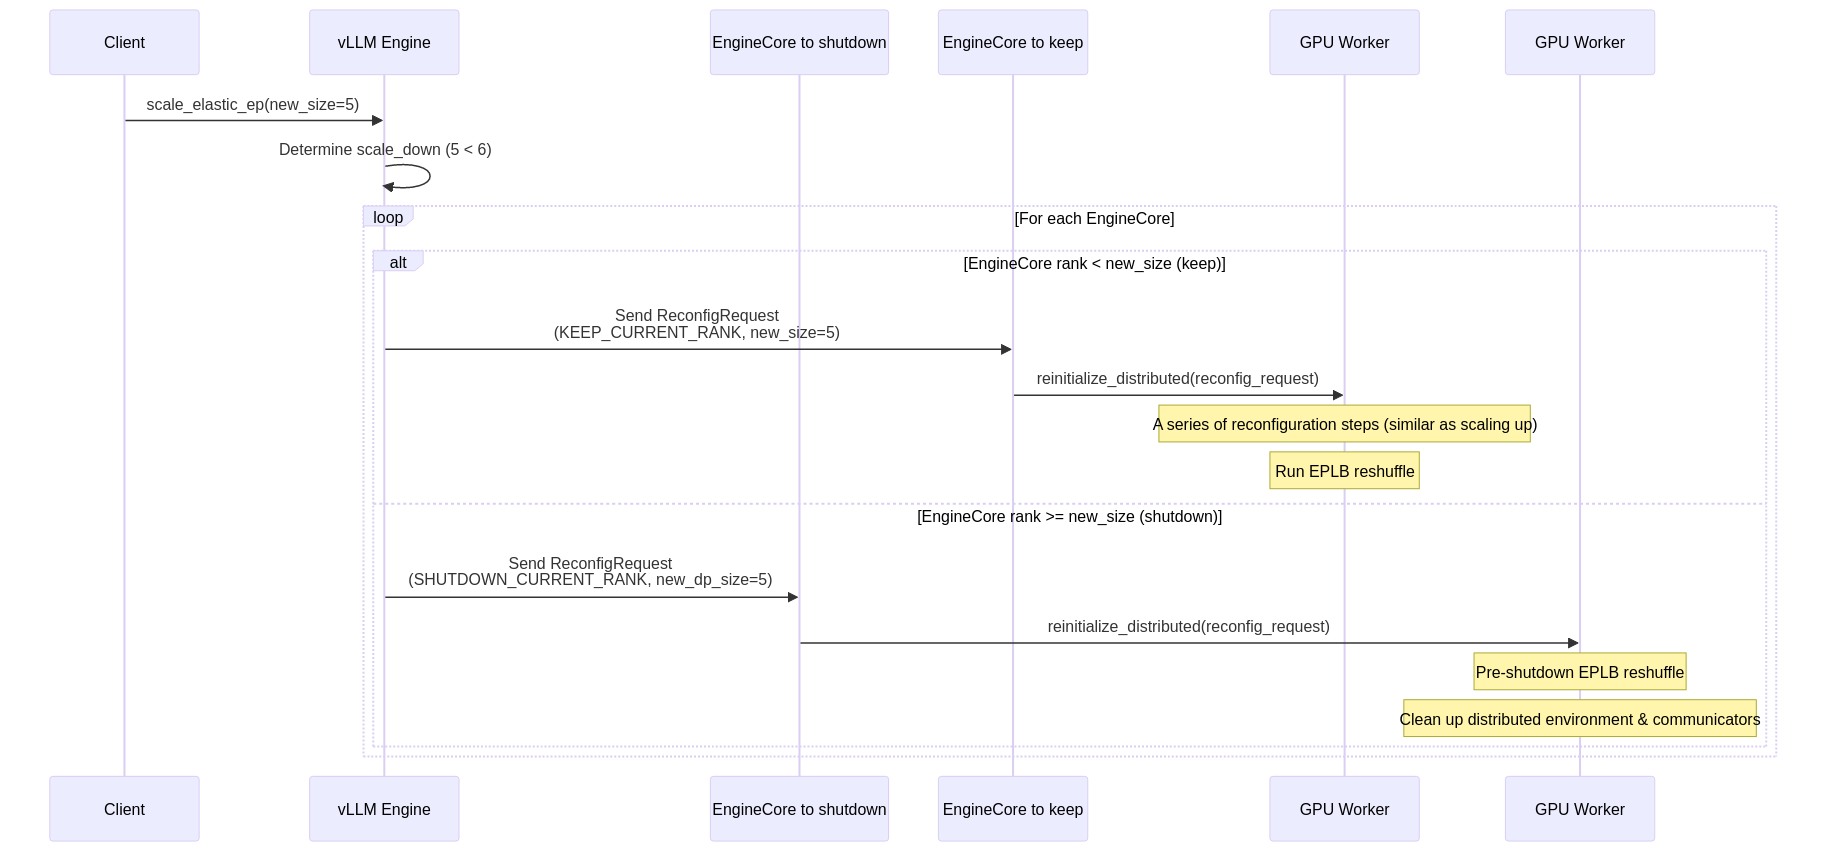
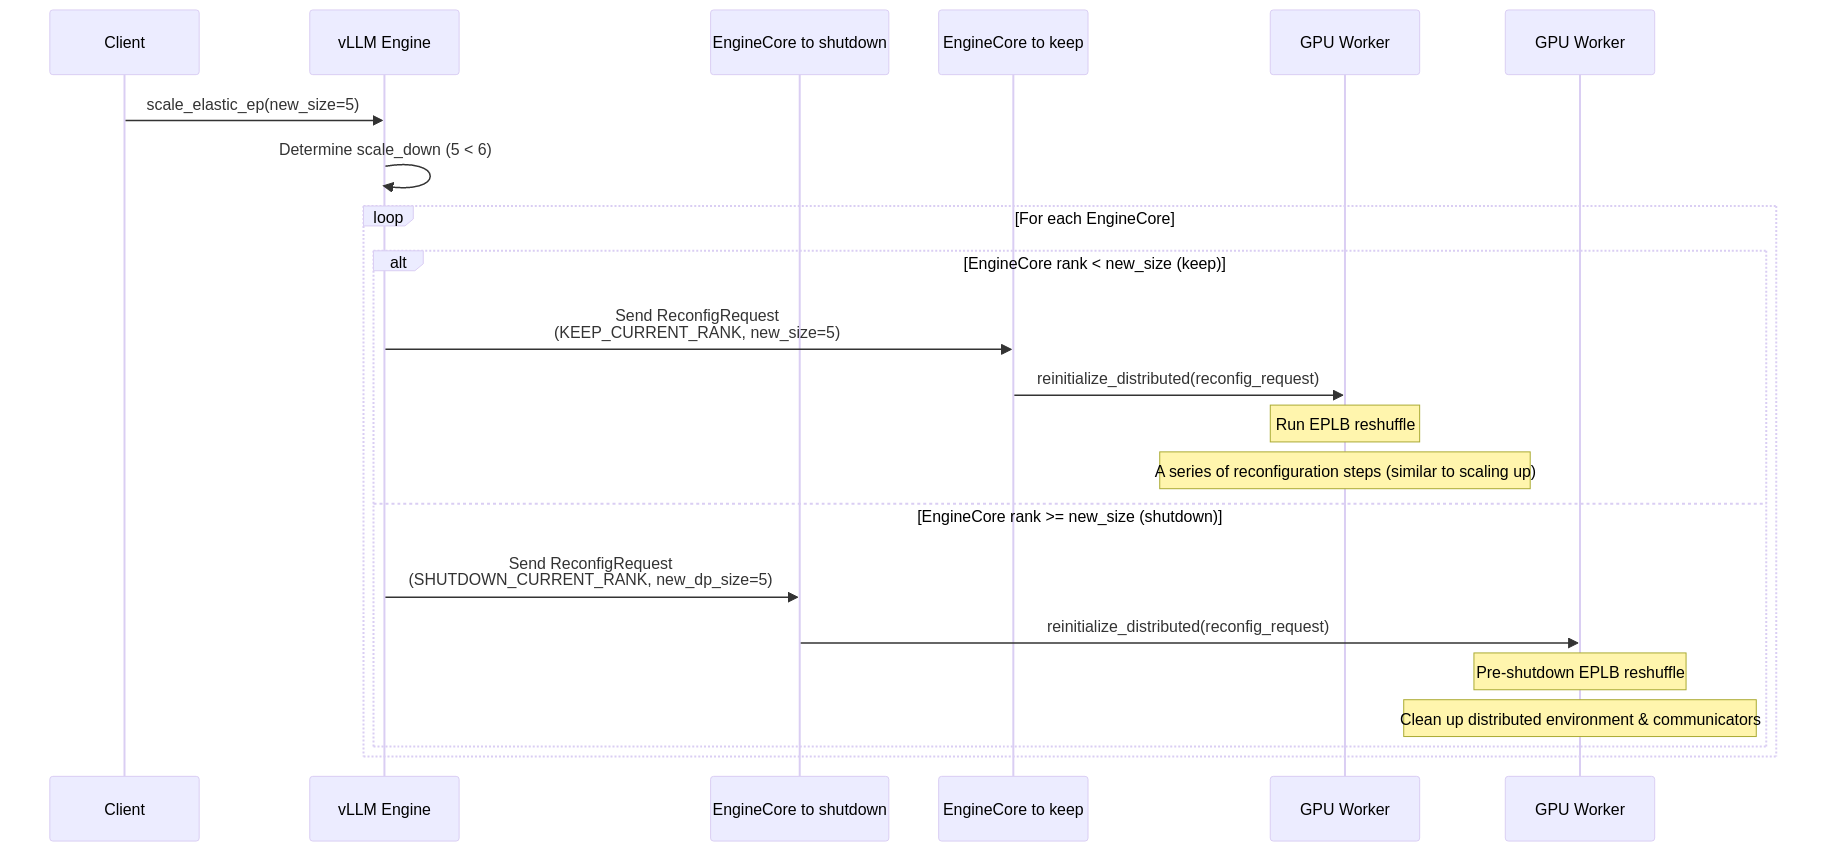
up

diff --git a/detailed_scale_down_terminating.md b/detailed_scale_down_terminating.md
@@ -18,9 +18,9 @@ sequenceDiagram
         alt EngineCore rank < new_size (keep)
             Engine->>KeepEngineCore: Send ReconfigRequest<br/>(KEEP_CURRENT_RANK, new_size=5)
             KeepEngineCore->>Worker1: reinitialize_distributed(reconfig_request)
-            
-            Note over Worker1: A series of reconfiguration steps (similar as scaling up)
+
             Note over Worker1: Run EPLB reshuffle
+            Note over Worker1: A series of reconfiguration steps (similar to scaling up)
             
         else EngineCore rank >= new_size (shutdown)
             Engine->>ShutdownEngineCore: Send ReconfigRequest<br/>(SHUTDOWN_CURRENT_RANK, new_dp_size=5)
@@ -85,4 +85,3 @@ sequenceDiagram
 - Synchronize expert weight transfers
 - Ensure all engines complete reconfiguration before shutdown
 - Maintain distributed system consistency
-
